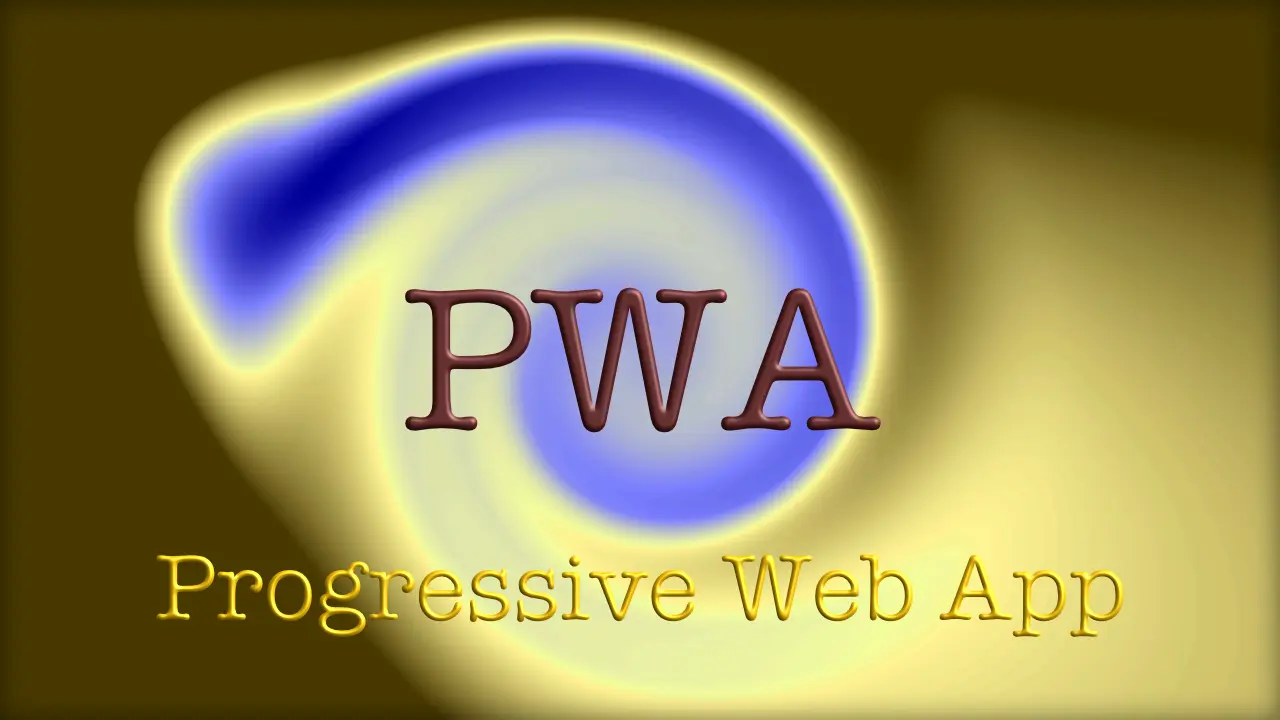
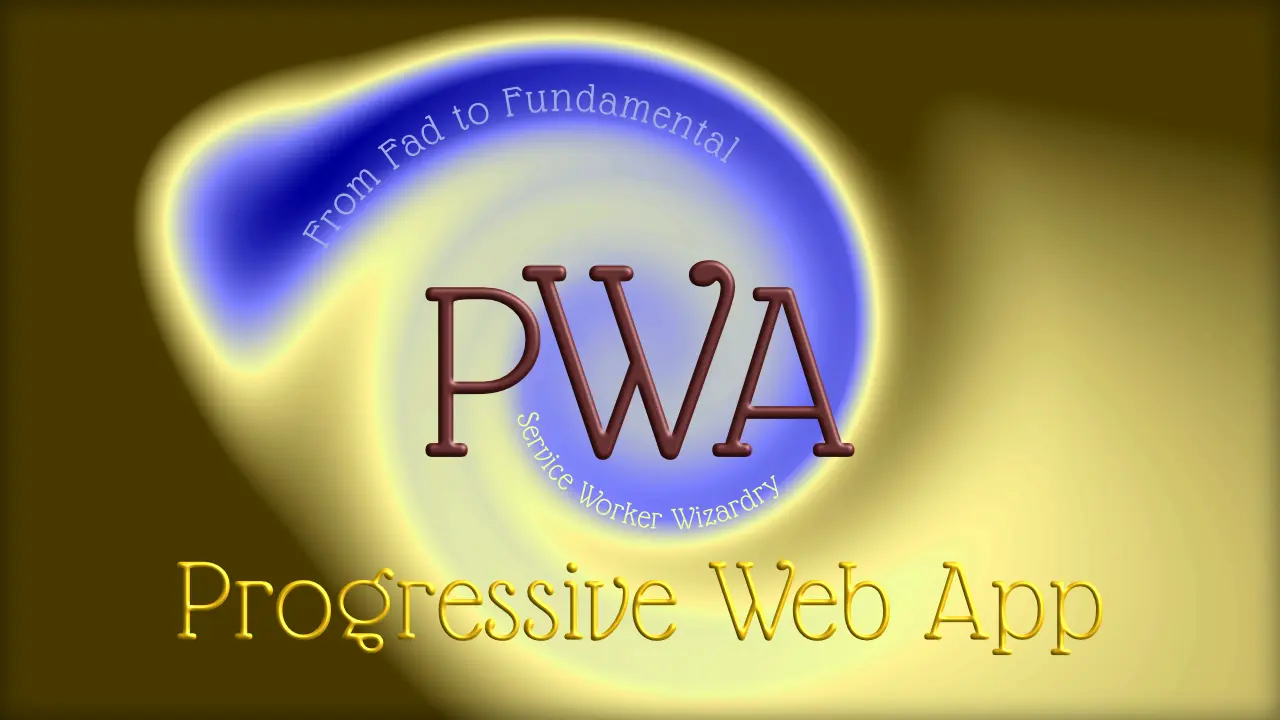
duck

diff --git a/patterns/javascript/index.html b/patterns/javascript/index.html
@@ -61,7 +61,7 @@ href="#a11y-skipmain">Skip to Main Content</a>
                     <svg class="mm__vect mm__vect--close" xmlns="http://www.w3.org/2000/svg"><path d="M0 0h24v24H0V0z" fill="none"/><path d="M13.89 8.7L12 10.59 10.11 8.7a.996.996 0 10-1.41 1.41L10.59 12 8.7 13.89a.996.996 0 101.41 1.41L12 13.41l1.89 1.89a.996.996 0 101.41-1.41L13.41 12l1.89-1.89a.996.996 0 000-1.41c-.39-.38-1.03-.38-1.41 0zM12 2C6.47 2 2 6.47 2 12s4.47 10 10 10 10-4.47 10-10S17.53 2 12 2zm0 18c-4.41 0-8-3.59-8-8s3.59-8 8-8 8 3.59 8 8-3.59 8-8 8z"/></svg>
                 </nav>
                 <div>
-<a class="mm__link--top" href="/" aria-label="Vanilla JS Popover Microinteraction" data-at="Scott C. Krause|Chicago 3D ⚡ UX ⚡ IA|3D UX IA|theScottKrause.com|Neodigm UX|Portfolio|Emerging Tech Blog|Radio Free Chicago|DataVis ⚡ PWA ⚡ Three.js|TypeScript ⚡ WASM ⚡ Nest.js">Scott C. Krause</a>
+<a class="mm__link--top" href="/" aria-label="Web Music Ad Blocker Snippet" data-at="Scott C. Krause|Chicago 3D ⚡ UX ⚡ IA|3D UX IA|theScottKrause.com|Neodigm UX|Portfolio|Emerging Tech Blog|Radio Free Chicago|DataVis ⚡ PWA ⚡ Three.js|TypeScript ⚡ WASM ⚡ Nest.js">Scott C. Krause</a>
                 </div>
                 <nav>
                     <svg class="scheme__vect scheme__vect--dark"  xmlns="http://www.w3.org/2000/svg" viewBox="0 0 24 24" fill="black" width="18px" height="18px"><path d="M0 0h24v24H0V0z" fill="none"/><path d="M12.43 2.3c-2.38-.59-4.68-.27-6.63.64-.35.16-.41.64-.1.86C8.3 5.6 10 8.6 10 12c0 3.4-1.7 6.4-4.3 8.2-.32.22-.26.7.09.86 1.28.6 2.71.94 4.21.94 6.05 0 10.85-5.38 9.87-11.6-.61-3.92-3.59-7.16-7.44-8.1z"/></svg>
@@ -117,23 +117,17 @@ href="#a11y-skipmain">Skip to Main Content</a>
 </script>
         <main id="a11y-skipmain" role="main">
             <picture class="hero-single" role="banner"> 
-                <img class="" src="../javascript_tn.webp" alt="Vanilla JS Popover Microinteraction">
+                <img class="" src="../javascript_tn.webp" alt="Web Music Ad Blocker Snippet">
                 <figcaption class="l-cat-chip">
                         
                             <a class="bg-coy_1999"
-                                href="https://thescottkrause.com/categories/design-system/">Design System</a>
-                        
-                            <a class="bg-coy_1999"
-                                href="https://thescottkrause.com/categories/ui-components/">UI Components</a>
-                        
-                            <a class="bg-coy_1999"
-                                href="https://thescottkrause.com/categories/microinteraction/">Microinteraction</a>
+                                href="https://thescottkrause.com/categories/dom/">DOM</a>
                         
                 </figcaption>
             </picture>
 
-            <h1 class="readable__title h-center"> Vanilla JS Popover Microinteraction </h1>
-            <p class="readable__doc h-center">Scott C. Krause | Wednesday, Dec 16, 2020</p>
+            <h1 class="readable__title h-center"> Web Music Ad Blocker Snippet </h1>
+            <p class="readable__doc h-center">Scott C. Krause | Monday, Dec 7, 2020</p>
 
             <ltdc-snackbar class="l-snackbar" role="alert">
     <section id="js-snackbar__id" class="snackbar__cont snackbar__cont--hide" aria-live="polite" aria-atomic="true">
@@ -143,62 +137,35 @@ href="#a11y-skipmain">Skip to Main Content</a>
 </ltdc-snackbar>
 
             <output>
-<div class="highlight"><pre style="color:#f8f8f2;background-color:#272822;-moz-tab-size:4;-o-tab-size:4;tab-size:4"><code class="language-JavaScript" data-lang="JavaScript"><span style="color:#75715e">//  A popover is a transient view that shows on a content screen when
-</span><span style="color:#75715e">//  a user clicks on a control button or within a defined area.
-</span><span style="color:#75715e"></span><span style="color:#75715e">/*   __  __     __           __  __     __  __    
-</span><span style="color:#75715e">    /\ \/\ \   /\ \         /\ \/\ \   /\_\_\_\   
-</span><span style="color:#75715e">    \ \ \_\ \  \ \ \        \ \ \_\ \  \/_/\_\/_  
-</span><span style="color:#75715e">     \ \_____\  \ \_\        \ \_____\   /\_\/\_\ 
-</span><span style="color:#75715e">      \/_____/   \/_/         \/_____/   \/_/\/_/   */</span>
+<div class="highlight"><pre style="color:#f8f8f2;background-color:#272822;-moz-tab-size:4;-o-tab-size:4;tab-size:4"><code class="language-JavaScript" data-lang="JavaScript"><span style="color:#75715e">/* Install: Open Chrome Dev Tools (Command+option+I on Mac). Menu &gt; Sources &gt; Snippets
+</span><span style="color:#75715e">   Install: Create a new Snippet named musicADify.js, Paste this script, Save (Command+S).
+</span><span style="color:#75715e">   Usage: Run the Snippet once each time you start the Music Web Player.
+</span><span style="color:#75715e">   Usage: Right-Click the snippet named musicADify.js and choose Run from the drop-down.
+</span><span style="color:#75715e">   Usage: Close Chrome Dev Tools. 🏖 Play your Jams! 🎶
+</span><span style="color:#75715e">
+</span><span style="color:#75715e">╔═╗┌─┐┌─┐┌┬┐┬┌─┐┬ ┬  ╔═╗┌┬┐┌─┐
+</span><span style="color:#75715e">╚═╗├─┘│ │ │ │├┤ └┬┘  ╠═╣ ││└─┐
+</span><span style="color:#75715e">╚═╝┴  └─┘ ┴ ┴└   ┴   ╩ ╩─┴┘└─┘ */</span>
 
-<span style="color:#66d9ef">let</span> <span style="color:#a6e22e">oPopOver</span> <span style="color:#f92672">=</span> ( ( <span style="color:#a6e22e">_win</span>, <span style="color:#a6e22e">_doc</span>, <span style="color:#a6e22e">_qry</span> ) =&gt; {
-        <span style="color:#66d9ef">let</span> <span style="color:#a6e22e">arPops</span> <span style="color:#f92672">=</span> [], <span style="color:#a6e22e">ePos</span>, <span style="color:#a6e22e">iOffTop</span><span style="color:#f92672">=</span><span style="color:#ae81ff">0</span>, <span style="color:#a6e22e">iOffLft</span><span style="color:#f92672">=</span><span style="color:#ae81ff">0</span>;
-        <span style="color:#66d9ef">return</span> {  <span style="color:#75715e">// Popover UX pattern
-</span><span style="color:#75715e"></span>            <span style="color:#e6db74">&#34;init&#34;</span><span style="color:#f92672">:</span> <span style="color:#66d9ef">function</span>(){ <span style="color:#75715e">// wire DOM events
-</span><span style="color:#75715e"></span>                <span style="color:#a6e22e">arPops</span><span style="color:#f92672">=</span> [].<span style="color:#a6e22e">slice</span>.<span style="color:#a6e22e">call</span>(<span style="color:#a6e22e">_doc</span>.<span style="color:#a6e22e">querySelectorAll</span>( <span style="color:#a6e22e">_qry</span> ));
-                <span style="color:#a6e22e">_win</span>.<span style="color:#a6e22e">addEventListener</span>(<span style="color:#e6db74">&#34;resize&#34;</span>, <span style="color:#a6e22e">oPopOver</span>.<span style="color:#a6e22e">closeAll</span>);
-                <span style="color:#a6e22e">_win</span>.<span style="color:#a6e22e">addEventListener</span>(<span style="color:#e6db74">&#34;scroll&#34;</span>, <span style="color:#a6e22e">oPopOver</span>.<span style="color:#a6e22e">closeAll</span>); 
-                <span style="color:#a6e22e">_doc</span>.<span style="color:#a6e22e">body</span>.<span style="color:#a6e22e">addEventListener</span>(<span style="color:#e6db74">&#34;click&#34;</span>, <span style="color:#66d9ef">function</span>( <span style="color:#a6e22e">e</span> ){ <span style="color:#75715e">// 👁 Outside Click
-</span><span style="color:#75715e"></span>                    <span style="color:#66d9ef">let</span> <span style="color:#a6e22e">eTarget</span> <span style="color:#f92672">=</span> <span style="color:#a6e22e">e</span>.<span style="color:#a6e22e">target</span>, <span style="color:#a6e22e">bInside</span> <span style="color:#f92672">=</span> <span style="color:#66d9ef">false</span>;
-                    <span style="color:#66d9ef">while</span>( <span style="color:#a6e22e">eTarget</span>.<span style="color:#a6e22e">tagName</span> <span style="color:#f92672">!==</span> <span style="color:#e6db74">&#34;HTML&#34;</span> ){
-                        <span style="color:#66d9ef">if</span>( <span style="color:#a6e22e">eTarget</span>.<span style="color:#a6e22e">dataset</span>.<span style="color:#a6e22e">popover</span> ){ <span style="color:#a6e22e">bInside</span> <span style="color:#f92672">=</span> <span style="color:#66d9ef">true</span>; <span style="color:#66d9ef">break</span>; }
-                        <span style="color:#a6e22e">eTarget</span> <span style="color:#f92672">=</span> <span style="color:#a6e22e">eTarget</span>.<span style="color:#a6e22e">parentNode</span>;
-                    }
-                    <span style="color:#66d9ef">if</span>( <span style="color:#f92672">!</span><span style="color:#a6e22e">bInside</span> ){ <span style="color:#75715e">// Tapped Outside of Popover
-</span><span style="color:#75715e"></span>                        <span style="color:#a6e22e">oPopOver</span>.<span style="color:#a6e22e">closeAll</span>();
-                    }
-                }, <span style="color:#66d9ef">true</span>);
-            },
-            <span style="color:#e6db74">&#34;open&#34;</span><span style="color:#f92672">:</span> <span style="color:#66d9ef">function</span>(<span style="color:#a6e22e">id</span>, <span style="color:#a6e22e">evPos</span>){ <span style="color:#75715e">// Open a single Popover
-</span><span style="color:#75715e"></span>                <span style="color:#66d9ef">if</span>( <span style="color:#a6e22e">arPops</span>.<span style="color:#a6e22e">length</span> <span style="color:#f92672">==</span> <span style="color:#ae81ff">0</span>) <span style="color:#66d9ef">return</span> <span style="color:#66d9ef">false</span>;
-                <span style="color:#a6e22e">oPopOver</span>.<span style="color:#a6e22e">closeAll</span>();
-                <span style="color:#a6e22e">ePos</span> <span style="color:#f92672">=</span> <span style="color:#a6e22e">evPos</span>.<span style="color:#a6e22e">currentTarget</span>;
-                <span style="color:#66d9ef">let</span> <span style="color:#a6e22e">elPop</span> <span style="color:#f92672">=</span> <span style="color:#a6e22e">arPops</span>.<span style="color:#a6e22e">filter</span>(<span style="color:#66d9ef">function</span>(<span style="color:#a6e22e">el</span>){
-                    <span style="color:#66d9ef">return</span> ( <span style="color:#a6e22e">el</span>.<span style="color:#a6e22e">id</span> <span style="color:#f92672">==</span> <span style="color:#a6e22e">id</span> );
-                })[<span style="color:#ae81ff">0</span>];
-                <span style="color:#a6e22e">iOffTop</span> <span style="color:#f92672">=</span> Number(<span style="color:#a6e22e">elPop</span>.<span style="color:#a6e22e">dataset</span>.<span style="color:#a6e22e">popoverPos</span>.<span style="color:#a6e22e">split</span>(<span style="color:#e6db74">&#34;|&#34;</span>)[<span style="color:#ae81ff">0</span>]);
-                <span style="color:#a6e22e">iOffLft</span> <span style="color:#f92672">=</span> Number(<span style="color:#a6e22e">elPop</span>.<span style="color:#a6e22e">dataset</span>.<span style="color:#a6e22e">popoverPos</span>.<span style="color:#a6e22e">split</span>(<span style="color:#e6db74">&#34;|&#34;</span>)[<span style="color:#ae81ff">1</span>]);
-                <span style="color:#a6e22e">elPop</span>.<span style="color:#a6e22e">dataset</span>.<span style="color:#a6e22e">popover</span> <span style="color:#f92672">=</span> <span style="color:#e6db74">&#34;true&#34;</span>; <span style="color:#75715e">// Open and Active
-</span><span style="color:#75715e"></span>                <span style="color:#a6e22e">elPop</span>.<span style="color:#a6e22e">style</span>.<span style="color:#a6e22e">left</span> <span style="color:#f92672">=</span> <span style="color:#a6e22e">oPopOver</span>.<span style="color:#a6e22e">position</span>().<span style="color:#a6e22e">left</span><span style="color:#f92672">+</span><span style="color:#e6db74">&#34;px&#34;</span>;
-                <span style="color:#a6e22e">elPop</span>.<span style="color:#a6e22e">style</span>.<span style="color:#a6e22e">top</span> <span style="color:#f92672">=</span> <span style="color:#a6e22e">oPopOver</span>.<span style="color:#a6e22e">position</span>().<span style="color:#a6e22e">top</span><span style="color:#f92672">+</span><span style="color:#e6db74">&#34;px&#34;</span>;
-            },
-            <span style="color:#e6db74">&#34;closeAll&#34;</span><span style="color:#f92672">:</span> <span style="color:#66d9ef">function</span>(){ <span style="color:#75715e">// Close all Popovers
-</span><span style="color:#75715e"></span>                <span style="color:#66d9ef">if</span>( <span style="color:#a6e22e">arPops</span>.<span style="color:#a6e22e">length</span> <span style="color:#f92672">==</span> <span style="color:#ae81ff">0</span>) <span style="color:#66d9ef">return</span> <span style="color:#66d9ef">false</span>;
-                <span style="color:#a6e22e">arPops</span>.<span style="color:#a6e22e">map</span>(<span style="color:#66d9ef">function</span>(<span style="color:#a6e22e">el</span>){
-                    <span style="color:#a6e22e">el</span>.<span style="color:#a6e22e">dataset</span>.<span style="color:#a6e22e">popover</span> <span style="color:#f92672">=</span> <span style="color:#e6db74">&#34;false&#34;</span>;
-                });
-            },
-            <span style="color:#e6db74">&#34;position&#34;</span><span style="color:#f92672">:</span> <span style="color:#66d9ef">function</span>(){ <span style="color:#75715e">// Determine Popover position
-</span><span style="color:#75715e"></span>                <span style="color:#66d9ef">let</span> <span style="color:#a6e22e">rec</span> <span style="color:#f92672">=</span> <span style="color:#a6e22e">ePos</span>.<span style="color:#a6e22e">getBoundingClientRect</span>(),
-                <span style="color:#a6e22e">pxLft</span> <span style="color:#f92672">=</span> <span style="color:#a6e22e">_win</span>.<span style="color:#a6e22e">pageXOffset</span> <span style="color:#f92672">||</span> <span style="color:#a6e22e">_doc</span>.<span style="color:#a6e22e">documentElement</span>.<span style="color:#a6e22e">scrollLeft</span>,
-                <span style="color:#a6e22e">pxTop</span> <span style="color:#f92672">=</span> <span style="color:#a6e22e">_win</span>.<span style="color:#a6e22e">pageYOffset</span> <span style="color:#f92672">||</span> <span style="color:#a6e22e">_doc</span>.<span style="color:#a6e22e">documentElement</span>.<span style="color:#a6e22e">scrollTop</span>;
-                <span style="color:#66d9ef">return</span> { <span style="color:#a6e22e">top</span><span style="color:#f92672">:</span> (<span style="color:#a6e22e">rec</span>.<span style="color:#a6e22e">top</span> <span style="color:#f92672">+</span> <span style="color:#a6e22e">pxTop</span> <span style="color:#f92672">+</span> <span style="color:#a6e22e">iOffTop</span>), <span style="color:#a6e22e">left</span><span style="color:#f92672">:</span> (<span style="color:#a6e22e">rec</span>.<span style="color:#a6e22e">left</span> <span style="color:#f92672">+</span> <span style="color:#a6e22e">pxLft</span> <span style="color:#f92672">+</span> <span style="color:#a6e22e">iOffLft</span>) }
-            }
+ <span style="color:#66d9ef">let</span> <span style="color:#a6e22e">spotADify</span> <span style="color:#f92672">=</span> ( (<span style="color:#a6e22e">_d</span>, <span style="color:#a6e22e">_q</span>, <span style="color:#a6e22e">_t</span>) =&gt; {
+    <span style="color:#66d9ef">let</span> <span style="color:#a6e22e">eS</span> <span style="color:#f92672">=</span> <span style="color:#a6e22e">_d</span>.<span style="color:#a6e22e">querySelector</span>( <span style="color:#a6e22e">_q</span> ), <span style="color:#a6e22e">bS</span> <span style="color:#f92672">=</span> <span style="color:#66d9ef">true</span>;
+    <span style="color:#66d9ef">if</span>( <span style="color:#a6e22e">eS</span> ){ <span style="color:#75715e">// 🏖 Play your Jams! 🎶
+</span><span style="color:#75715e"></span>        <span style="color:#a6e22e">bS</span> <span style="color:#f92672">=</span> ( <span style="color:#a6e22e">eS</span>.<span style="color:#a6e22e">getAttribute</span>(<span style="color:#e6db74">&#34;aria-label&#34;</span>) <span style="color:#f92672">==</span> <span style="color:#e6db74">&#34;Mute&#34;</span> );
+        <span style="color:#a6e22e">setInterval</span>( () =&gt; {<span style="color:#a6e22e">spotADify</span>.<span style="color:#a6e22e">tick</span>();}, <span style="color:#a6e22e">_t</span>);
+        <span style="color:#66d9ef">return</span> {
+        <span style="color:#e6db74">&#34;tick&#34;</span><span style="color:#f92672">:</span>  () =&gt; {
+          <span style="color:#66d9ef">if</span>((<span style="color:#a6e22e">_d</span>.<span style="color:#a6e22e">title</span>.<span style="color:#a6e22e">indexOf</span>(<span style="color:#e6db74">&#34;Adve&#34;</span>) <span style="color:#f92672">!=</span> <span style="color:#f92672">-</span><span style="color:#ae81ff">1</span>) <span style="color:#f92672">||</span> (<span style="color:#a6e22e">_d</span>.<span style="color:#a6e22e">title</span>.<span style="color:#a6e22e">indexOf</span>(<span style="color:#e6db74">&#34;Spoti&#34;</span>) <span style="color:#f92672">!=</span> <span style="color:#f92672">-</span><span style="color:#ae81ff">1</span>)){
+              <span style="color:#66d9ef">if</span>(  <span style="color:#a6e22e">bS</span> ){ <span style="color:#a6e22e">eS</span>.<span style="color:#a6e22e">click</span>(); <span style="color:#a6e22e">bS</span><span style="color:#f92672">=!</span><span style="color:#66d9ef">true</span>; }
+          }<span style="color:#66d9ef">else</span>{
+              <span style="color:#66d9ef">if</span>( <span style="color:#f92672">!</span><span style="color:#a6e22e">bS</span> ){ <span style="color:#a6e22e">eS</span>.<span style="color:#a6e22e">click</span>(); <span style="color:#a6e22e">bS</span><span style="color:#f92672">=</span><span style="color:#66d9ef">true</span>; }
+          }
         }
-    })(window, document, <span style="color:#e6db74">&#34;[data-popover]&#34;</span>); <span style="color:#75715e">// Declarative implementation
-</span></code></pre></div>
-<span class="h-ds__none"
-data-at="Vanilla JS Popover|Declarative implementation|Floating UI Widget|Popover Microinteraction|Declarative Binding"></span>
+      }
+    }
+  })( document, <span style="color:#e6db74">&#34;[aria-label=&#39;Mute&#39;],[aria-label=&#39;Unmute&#39;]&#34;</span>, <span style="color:#ae81ff">256</span>);
+</code></pre></div>
+    <span class="h-ds__none"
+    data-at="Mute Ads in Web Player|Automatically Mute Ads|Remove Ads from Web Music"></span>
 </output>  
 
             <section class="pfmf-grid pfmf-grid__60_40" data-caro-auto-click="true">
@@ -1965,7 +1932,7 @@ data-at="TS Config Class|Chrome Extention TS|TypeScript Config Class|In Browser 
                 
                     <a class="bg-coy_1999" data-at="bg-coy_1999|bg-coy_2000|bg-coy_2001|bg-coy_2002|bg-coy_2003|bg-coy_2004|bg-coy_2005|bg-coy_2006|bg-coy_2007|bg-coy_2008|bg-coy_2009"
                         data-at-change="class"
-                        href="https://thescottkrause.com/tags/ux/">UX</a>
+                        href="https://thescottkrause.com/tags/snippets/">Snippets</a>
                 
                     <a class="bg-coy_1999" data-at="bg-coy_1999|bg-coy_2000|bg-coy_2001|bg-coy_2002|bg-coy_2003|bg-coy_2004|bg-coy_2005|bg-coy_2006|bg-coy_2007|bg-coy_2008|bg-coy_2009"
                         data-at-change="class"
@@ -2529,8 +2496,8 @@ if( e3 ) {
 <script type="application/ld+json">
     { "@context": "https://schema.org", 
      "@type": "BlogPosting",
-     "headline": "Vanilla JS Popover Microinteraction",
-     "alternativeHeadline": "A popover is a transient view that shows on a content screen when a user clicks on a control button or within a defined area.",
+     "headline": "Web Music Ad Blocker Snippet",
+     "alternativeHeadline": "Automatically mute the Music player when Ads are playing and unmute when they are done (in Chrome).",
      "image": "../javascript_tn.webp",
      "award": "Best of the Independent Web",
      "editor": "Scott C. Krause", 
@@ -2539,11 +2506,11 @@ if( e3 ) {
      "wordcount": "1646",
      "publisher": "Arcanus 55",
      "url": "https:\/\/thescottkrause.com\/patterns\/javascript\/",
-     "datePublished": "2020-12-16",
-     "dateCreated": "2020-12-16",
-     "dateModified": "2020-12-16",
-     "description": "Vanilla JS Popover Microinteraction",
-     "articleBody": "A popover is a transient view that shows on a content screen when a user clicks on a control button or within a defined area. ",
+     "datePublished": "2020-12-07",
+     "dateCreated": "2020-12-07",
+     "dateModified": "2020-12-07",
+     "description": "Web Music Ad Blocker Snippet",
+     "articleBody": "Automatically mute the Music player when Ads are playing and unmute when they are done (in Chrome). ",
        "author": {
         "@type": "Person",
         "name": "Scott C. Krause"

diff --git a/emerging_tech/curated-pwa-links/index.html b/emerging_tech/curated-pwa-links/index.html
@@ -143,6 +143,26 @@ href="#a11y-skipmain">Skip to Main Content</a>
 </ltdc-snackbar>
 
             
+<section class="pfmf-grid pfmf-grid__60_40 readable__doc">
+    <div>
+        <article class="pfmf-crd--black h-center"><p class="readable__doc readable__doc--white"
+            data-at="Web Renaissance|Feasible Impossibilities|Progressive Web App|Service Worker Wizardry|Houston we have an Alternative|From Fad to Fundamental|Clever Tricknology">Service Worker Wizardry</p></article>
+            <article style="padding: 12px 12px;">
+                <p>The Progressive Web App represents the single greatest leap in engagement opportunity since the introduction of the browser. Because of its intimate relationship with the phone the potential to influence the micro-moment behavior of its user is vast and largely unexplored.</p>
+                <p>Your website becomes a native app in both experience and performance. Your home page is a first class citizen on an iPhone or Android. It resides on the homescreen and in the app drawer.</p> 
+                <p>When it is tapped it will respond instantly with a custom splash screen even while offline.</p>
+            </article>  
+    </div>
+    <div>
+        <article style="padding: 12px 12px;">
+            <h3 class="document__title h_ital h-center text-coy_2019">Here’s the problem</h3>
+            <p>There is friction when a customer must discover your app, install it, and create an account. People have become resistant to installing new apps simply because the novelty has worn off.</p> 
+            <h3 class="document__title h_ital h-center text-coy_2019">Here’s the solution</h3>
+            <p>A website that behaves like an app. The discovery and onboarding are frictionless because there is no need to install an app. It’s Instant gratification.</p> 
+        </article>  
+    </div>
+</section>
+
 <div class="vvs-cont">
     <p class="js-vect__banner readable__caption h-center l-capt__vect"
     data-at-vivid="PWA" data-at-rnd-gt="0" data-at-change="data-at-vivid" data-at="Links">
